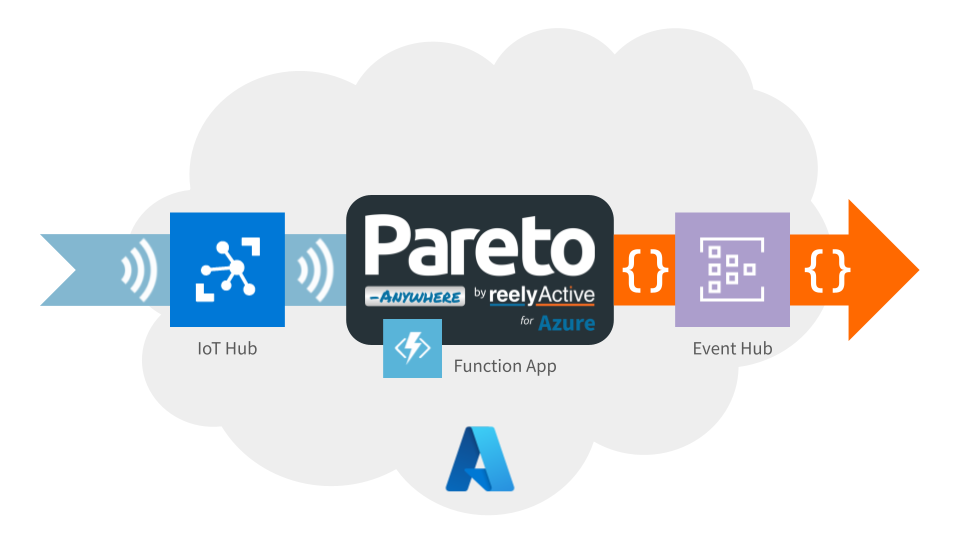
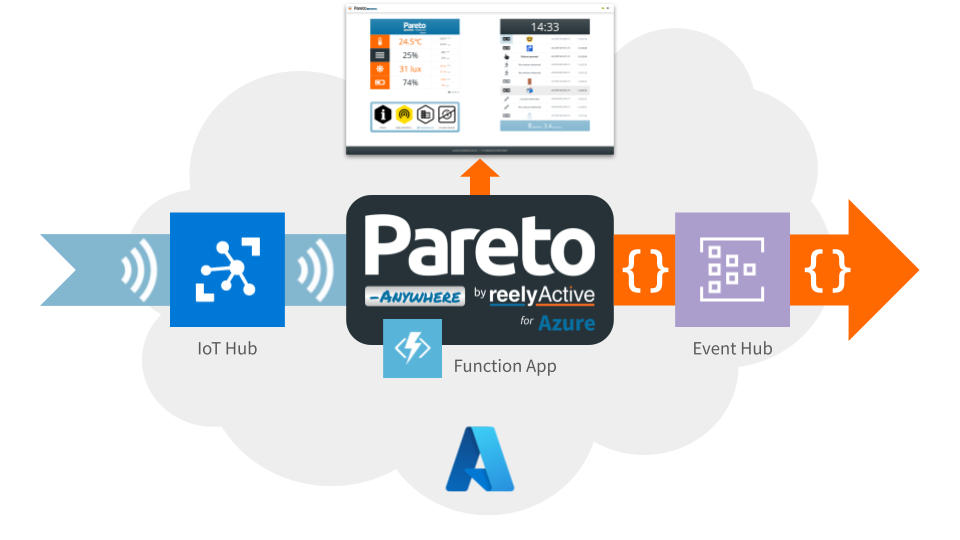
Added web app screenshots and descriptions

Changed region(s): [[0.3438, 0.0296, 0.6562, 0.3556], [0.3438, 0.0, 0.375, 0.0296]]

diff --git a/diy/pareto-anywhere-azure/index.html b/diy/pareto-anywhere-azure/index.html
@@ -1069,6 +1069,15 @@ For detailed output, run func with --verbose flag.
             <small class="text-muted"> Part 2 </small>
           </h3>
           <p> Point a web browser to <a href="http://localhost:7071/app/" target="_blank">http://localhost:7071/app/</a> to observe the web application running locally. </p>
+          <img src="images/web-app.png" class="img-fluid mx-auto d-block"
+               style="max-width:960px">
+          <h3 class="mt-4">
+            Customise the web app
+            <small class="text-muted"> (OPTIONAL) Part 3 </small>
+          </h3>
+          <p> For convenience, the web app and all its dependencies are served by the Azure Function itself from the <span class="font-monospace">/serveWebApp</span> folder (and its <span class="font-monospace">/images /js /style</span> subfolders).  Simply edit the <span class="font-monospace">index.html</span> file and the dependencies as required, and the changes will appear as soon as the function restarts. </p>
+          <p> The web app observes the <a href="https://reelyactive.github.io/web-style-guide/" target="_blank"><i class="fas fa-external-link-alt"></i> reelyActive Web Style Guide</a> with the additional dependencies of <a href="https://github.com/reelyactive/beaver/" target="_blank"><i class="fas fa-external-link-alt"></i> beaver.js</a> and <a href="https://github.com/reelyactive/cuttlefish/" target="_blank"><i class="fas fa-external-link-alt"></i> cuttlefish.js</a> to collect and render the real-time dynamic ambient data, respectively. </p>
+          <p> The web app includes <a href="https://dtpr.io" target="_blank"><i class="fas fa-external-link-alt"></i> Digital Trust for Places & Routines (DTPR)</a> iconography to inform about the purpose, technology, accountability and data retention of the digital systems present in the physical space.  The icons, descriptions and links can easily be updated (in the <span class="font-monospace">index.html</span> file) to reflect the reality of the deployment. </p>
           <!----- Step 5 of 5 ----->
           <div class="card hover-shadow mt-5 bg-light border-0">
             <div class="card-body pt-4">
@@ -1236,6 +1245,13 @@ For detailed output, run func with --verbose flag.
             <small class="text-muted"> Part 3 </small>
           </h3>
           <p> Point a web browser to <a href="https://app-name.azurewebsites.net/app/" target="_blank">https://<b>app-name</b>.azurewebsites.net/app/</a>, again substituting <b class="text-primary">app-name</b> for the Function name you selected in Part 1 above, to observe the web application running on Azure. </p>
+          <img src="images/web-app.png" class="img-fluid mx-auto d-block"
+               style="max-width:960px">
+          <h3 class="mt-4">
+            Optimise the web app
+            <small class="text-muted"> (OPTIONAL) Part 4 </small>
+          </h3>
+          <p> In the case where the web app is used in production, and/or the URL is shared publicly, it is strongly advised to optimise how the content is served.  For example, at a minimum, all dependencies of the <span class="font-monospace">index.html</span> file may be served by a CDN or an Azure service like <a href="https://azure.microsoft.com/products/app-service/static" target="_blank"><i class="fas fa-external-link-alt"></i> Static Web Apps</a>, for efficiency and security. </p>
           <!----- Attribution ----->
           <div class="card hover-shadow bg-light border-0 my-5">
             <div class="row g-0">
